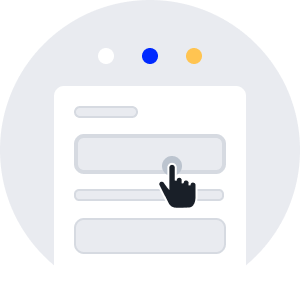
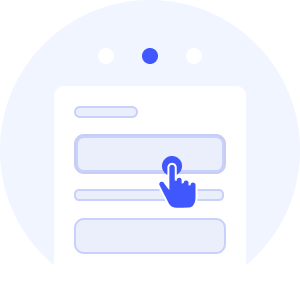
style: update Empty component and add TextField component

diff --git a/packages/dindong-research/src/theme.ts b/packages/dindong-research/src/theme.ts
@@ -17,7 +17,7 @@ const theme = createTheme({
       main: "#4577D8",
     },
     warning: {
-      main: "#DB5654",
+      main: "#AC5F00",
     },
     error: {
       main: "#DB5654",
@@ -50,11 +50,8 @@ const theme = createTheme({
         text: {
           fontWeight: "bold",
         },
-      },
-      variants: [
-        {
-          props: { color: "primary" },
-          style: {
+        root: ({ ownerState }) => ({
+          ...(ownerState.color === "primary" && {
             ":hover": {
               backgroundColor: "#2D44E7",
             },
@@ -63,11 +60,8 @@ const theme = createTheme({
               opacity: 0.4,
               color: "#fff",
             },
-          },
-        },
-        {
-          props: { color: "secondary" },
-          style: {
+          }),
+          ...(ownerState.color === "secondary" && {
             ":hover": {
               backgroundColor: "#38414E",
             },
@@ -76,8 +70,10 @@ const theme = createTheme({
               opacity: 0.4,
               color: "#fff",
             },
-          },
-        },
+          }),
+        }),
+      },
+      variants: [
         {
           props: { color: "inherit" },
           style: {
@@ -94,6 +90,56 @@ const theme = createTheme({
           },
         },
       ],
+    },
+    MuiDialog: {
+      styleOverrides: {
+        paper: {
+          borderRadius: "24px",
+        },
+      },
+    },
+    MuiDialogTitle: {
+      styleOverrides: {
+        root: {
+          fontWeight: 800,
+        },
+      },
+    },
+    MuiDialogContent: {
+      styleOverrides: {
+        root: {
+          padding: "0px 20px 8px 20px",
+        },
+      },
+    },
+    MuiDialogActions: {
+      styleOverrides: {
+        root: {
+          padding: "20px",
+        },
+      },
+    },
+    MuiFormLabel: {
+      styleOverrides: {
+        root: {
+          fontWeight: 700,
+          "&.Mui-focused": {
+            color: "#36445F",
+          },
+        },
+      },
+    },
+    MuiOutlinedInput: {
+      styleOverrides: {
+        root: {
+          borderRadius: "8px",
+          borderColor: "#E0E4EA",
+          backgroundColor: "#F5F7FA",
+        },
+        input: {
+          padding: "12px 16px",
+        },
+      },
     },
   },
 });

diff --git a/packages/dindong-research/src/widgets/CreateProjectAction/CreateProjectAction.tsx b/packages/dindong-research/src/widgets/CreateProjectAction/CreateProjectAction.tsx
@@ -6,9 +6,9 @@ import {
   DialogActions,
   DialogContent,
   DialogTitle,
-  TextField,
 } from "@mui/material";
-import AddIcon from "@mui/icons-material/Add";
+import AddCircleOutlineIcon from "@mui/icons-material/AddCircleOutline";
+import TextField from "src/shared/TextField/TextField";
 
 const CreateProjectAction = () => {
   const [open, setOpen] = React.useState(false);
@@ -16,12 +16,10 @@ const CreateProjectAction = () => {
   return (
     <div>
       <Button
-        startIcon={<AddIcon />}
-        // color="inherit"
-        disabled
+        startIcon={<AddCircleOutlineIcon />}
         onClick={() => setOpen(true)}
       >
-        설문 프로젝트 만들기
+        프로젝트 만들기
       </Button>
 
       <CreateProjectDialog open={open} onClose={() => setOpen(false)} />
@@ -44,18 +42,17 @@ const CreateProjectDialog: React.FC<CreateProjectDialogProps> = ({
 }) => {
   return (
     <Dialog open={open} maxWidth="xs" fullWidth onClose={onClose}>
-      <DialogTitle>설문 프로젝트 만들기</DialogTitle>
+      <DialogTitle>실험 프로젝트 만들기</DialogTitle>
       <DialogContent>
         <TextField
-          label="프로젝트 이름"
-          fullWidth
           required
+          fullWidth
+          label="프로젝트 명"
           placeholder="프로젝트 명을 입력해주세요"
-          sx={{ marginTop: 1 }}
         />
       </DialogContent>
       <DialogActions>
-        <Button color="secondary" onClick={onClose}>
+        <Button color="inherit" onClick={onClose}>
           취소
         </Button>
         <Button>만들기</Button>

diff --git a/packages/dindong-research/src/shared/Empty/Empty.tsx b/packages/dindong-research/src/shared/Empty/Empty.tsx
@@ -1,7 +1,8 @@
 import { Stack, Typography } from "@mui/material";
 import React from "react";
-import emptyImage from "src/assets/empty.png";
 import Image from "next/image";
+
+import emptyImage from "src/assets/empty.png";
 
 //
 //
@@ -42,11 +43,13 @@ const Empty: React.FC<EmptyProps> = ({
 
       {/* title and description */}
       <Stack gap={0.5}>
-        <Typography variant="h5" fontWeight={800} color="text.secondary">
+        <Typography variant="h5" fontWeight={800}>
           {title}
         </Typography>
         {description ? (
-          <Typography color="text.tertiary">{description}</Typography>
+          <Typography color="text.secondary" variant="body1">
+            {description}
+          </Typography>
         ) : null}
       </Stack>
 

diff --git a/packages/dindong-research/src/shared/TextField/TextField.tsx b/packages/dindong-research/src/shared/TextField/TextField.tsx
@@ -1,0 +1,33 @@
+import {
+  FormControl,
+  FormLabel,
+  InputBase,
+  InputBaseProps,
+  InputLabel,
+  OutlinedInput,
+  Typography,
+} from "@mui/material";
+import React from "react";
+
+interface TextFieldProps extends InputBaseProps {
+  required?: boolean;
+  label?: string;
+}
+
+const TextField: React.FC<TextFieldProps> = ({ required, label, ...props }) => {
+  return (
+    <FormControl sx={{ width: "100%" }}>
+      <FormLabel sx={{ mb: 1 }}>
+        {label}
+        {required ? (
+          <Typography color="#DB5654" component="span" sx={{ ml: 0.5 }}>
+            *
+          </Typography>
+        ) : null}
+      </FormLabel>
+      <OutlinedInput {...props} fullWidth />
+    </FormControl>
+  );
+};
+
+export default TextField;

diff --git a/packages/dindong-research/src/widgets/SurveyListEmpty/SurveyListEmpty.tsx b/packages/dindong-research/src/widgets/SurveyListEmpty/SurveyListEmpty.tsx
@@ -5,7 +5,7 @@ import Empty from "src/shared/Empty/Empty";
 const SurveyListEmpty = () => {
   return (
     <Empty
-      title="생성된 설문 프로젝트가 없습니다"
+      title="생성된 실험 프로젝트가 없습니다"
       description="아래 버튼을 클릭하여 프로젝트를 만들어 보세요."
       action={<CreateProjectAction />}
     />
